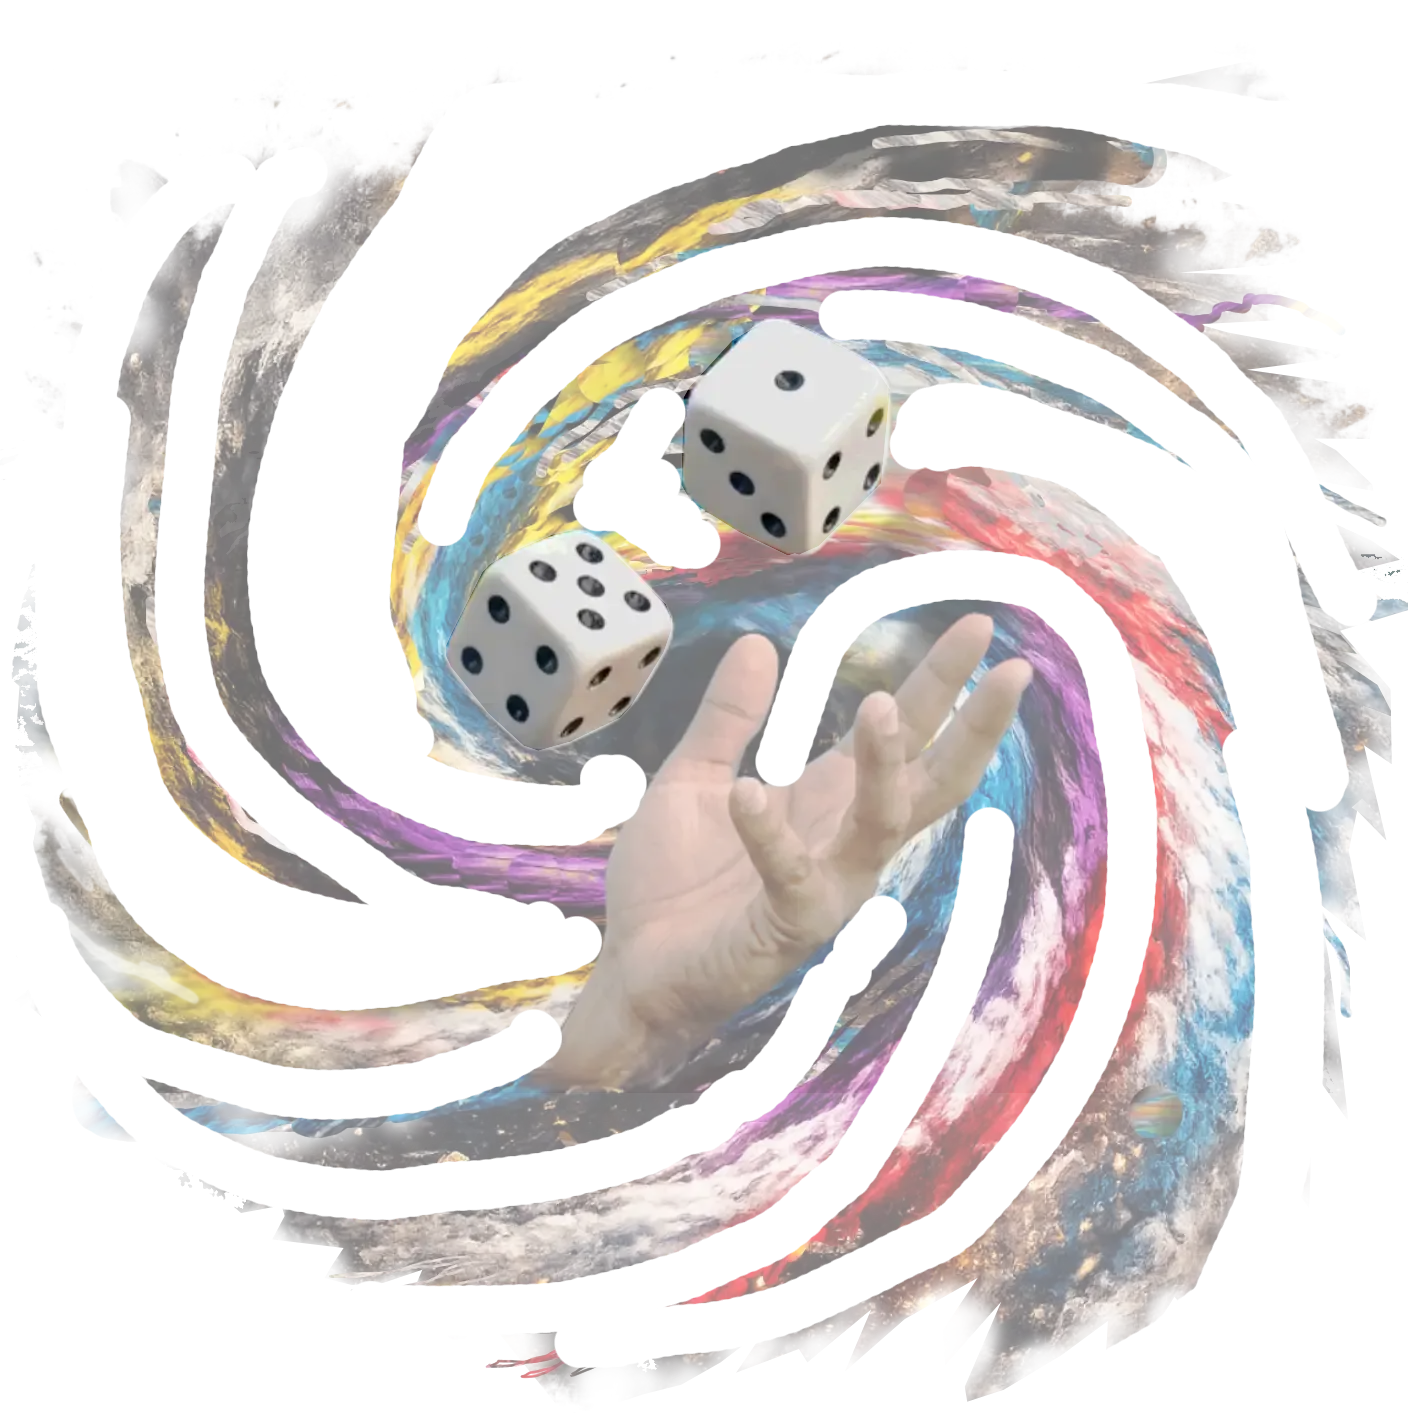
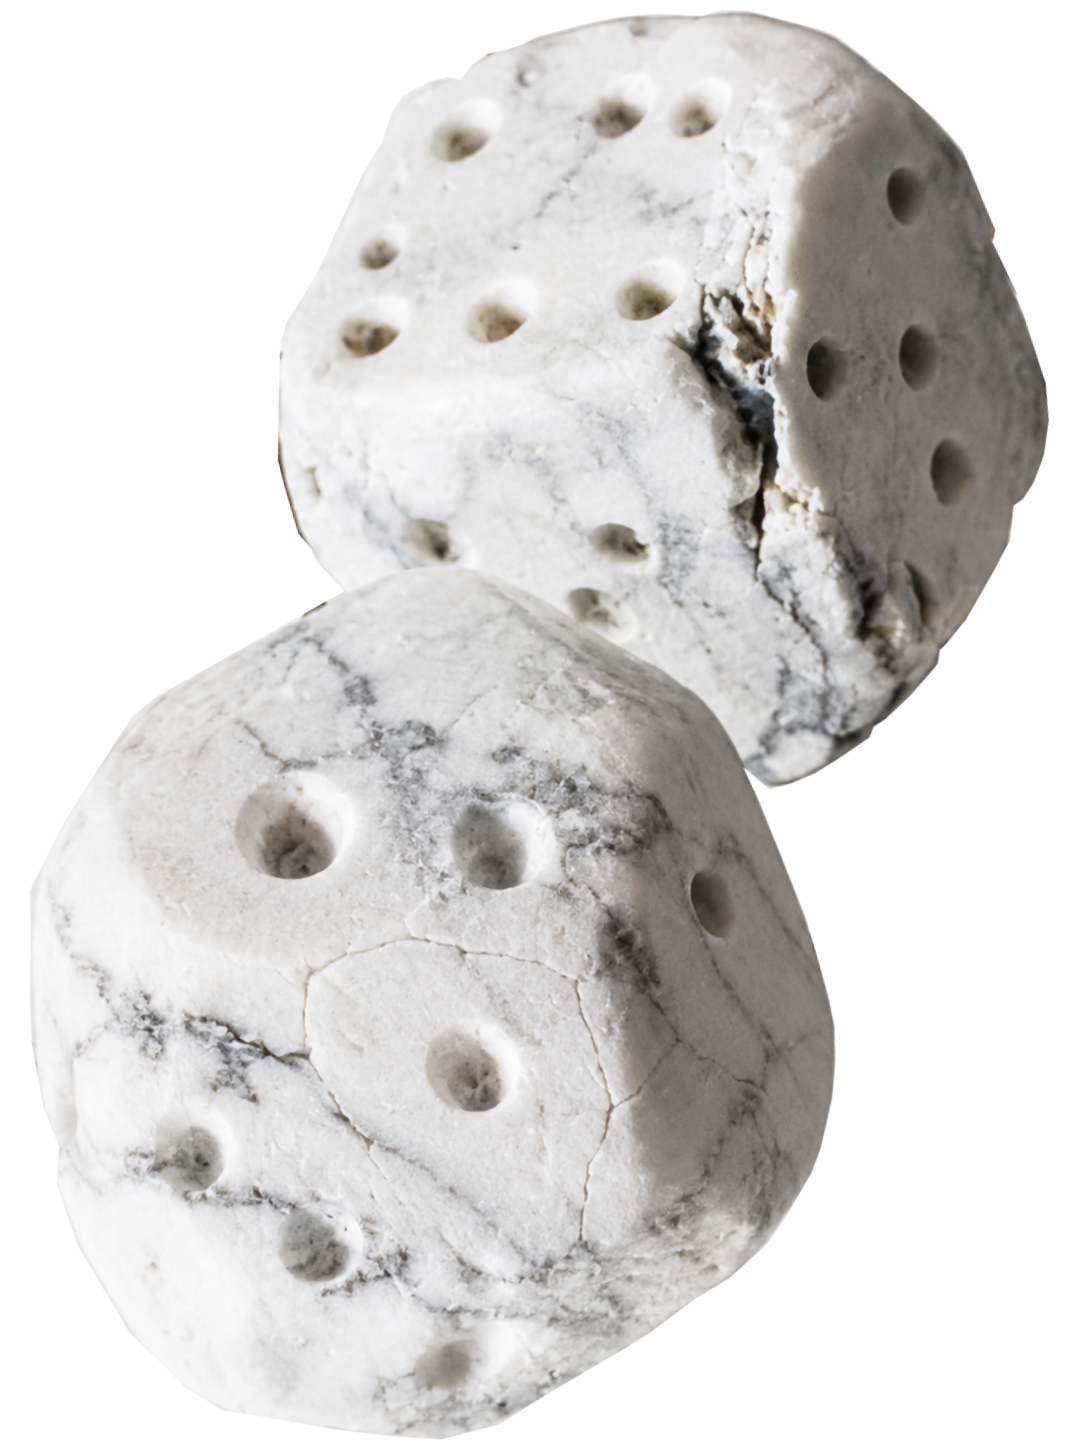
feat: dado del boton cambia de foto segun el turno (blanco/negro)
- dice_white_portal.webp: reemplazado por la foto de dados de mármol
  que subio el usuario, a juego con el arte de piedra del Génesis.
  dice_black_portal.webp queda igual, tal como pidió.
- Board.tsx: USE_LEGACY_PORTAL_DICE_ART -> true. Esa rama ya tenía
  implementado state.turn === 'P1' ? diceWhitePortal : diceBlackPortal
  desde antes, solo estaba apagada a favor del par estático
  dice_genesis_1.webp. Ahora cada clic muestra la foto del jugador que
  le toca tirar. Se conserva el fix de animationPlayState (pausado
  durante el video) y el hint de la mano, ambos ya aplicados a esta
  rama.

diff --git a/src/game/Board.tsx b/src/game/Board.tsx
@@ -50,10 +50,12 @@ import diceBlackPortal from "../assets/dice/dice_black_portal.webp";
 // dice pair), dropped in by hand — see src/assets/dice/primitive/.
 import diceGenesisStonePair from "../assets/dice/primitive/dice_genesis_1.webp";
 
-// Flip this back to `true` to restore the white/black portal dice as the
-// roll-button art. Off by default while the Primitive Era stone dice photo
-// is active.
-const USE_LEGACY_PORTAL_DICE_ART = false;
+// 2026-08-05: el usuario reemplazó dice_white_portal.webp por una foto de
+// dados de mármol a juego con el arte de piedra del Génesis (dice_black_portal
+// se queda como estaba, según pidió). Se activa esta rama para que el dado
+// del botón cambie de foto según el turno (state.turn === "P1" -> blanco,
+// si no -> negro) en cada clic, en vez de mostrar el par estático de arriba.
+const USE_LEGACY_PORTAL_DICE_ART = true;
 
 // Flip this to `true` to fall back to the CSS-drawn stone circles below
 // instead of the real photo, e.g. if the photo asset is ever missing.
